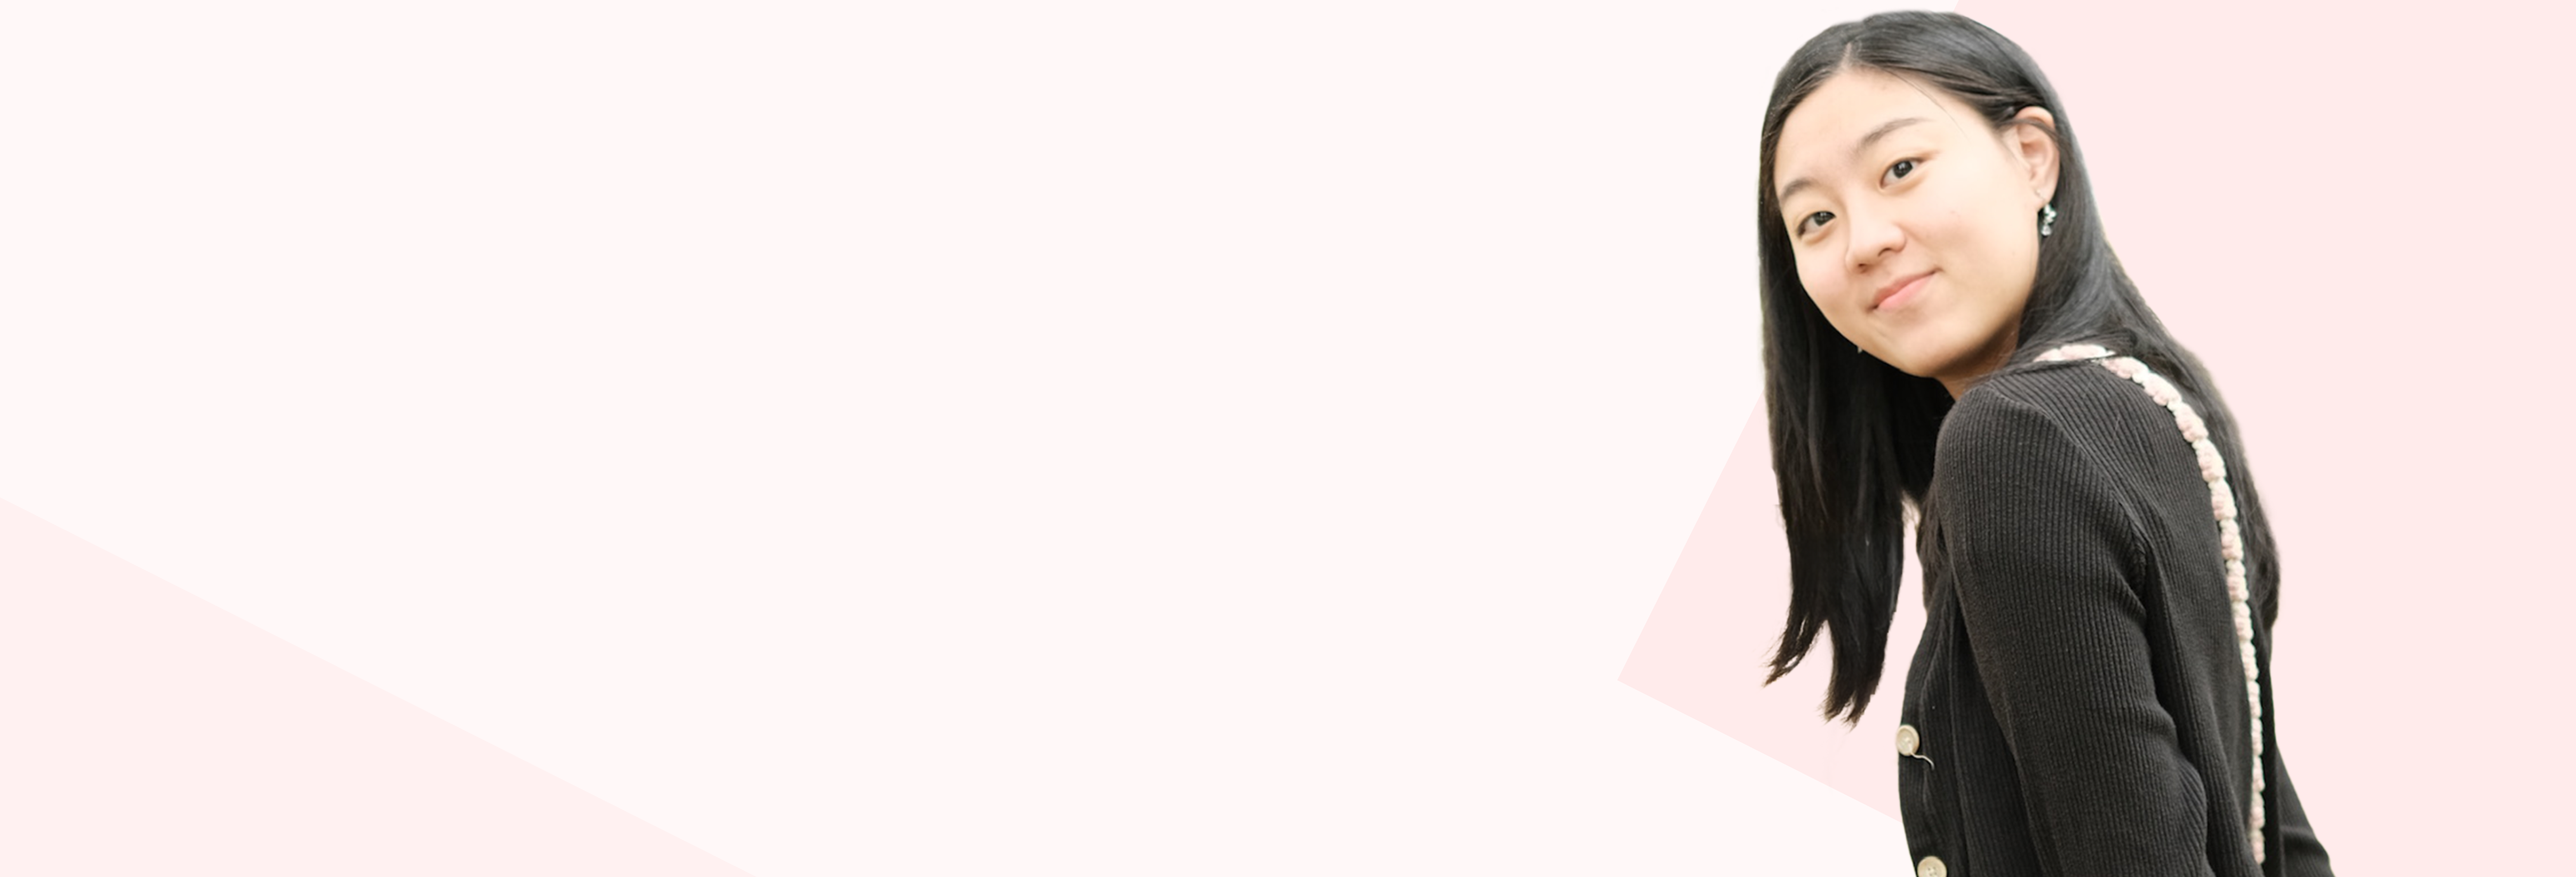
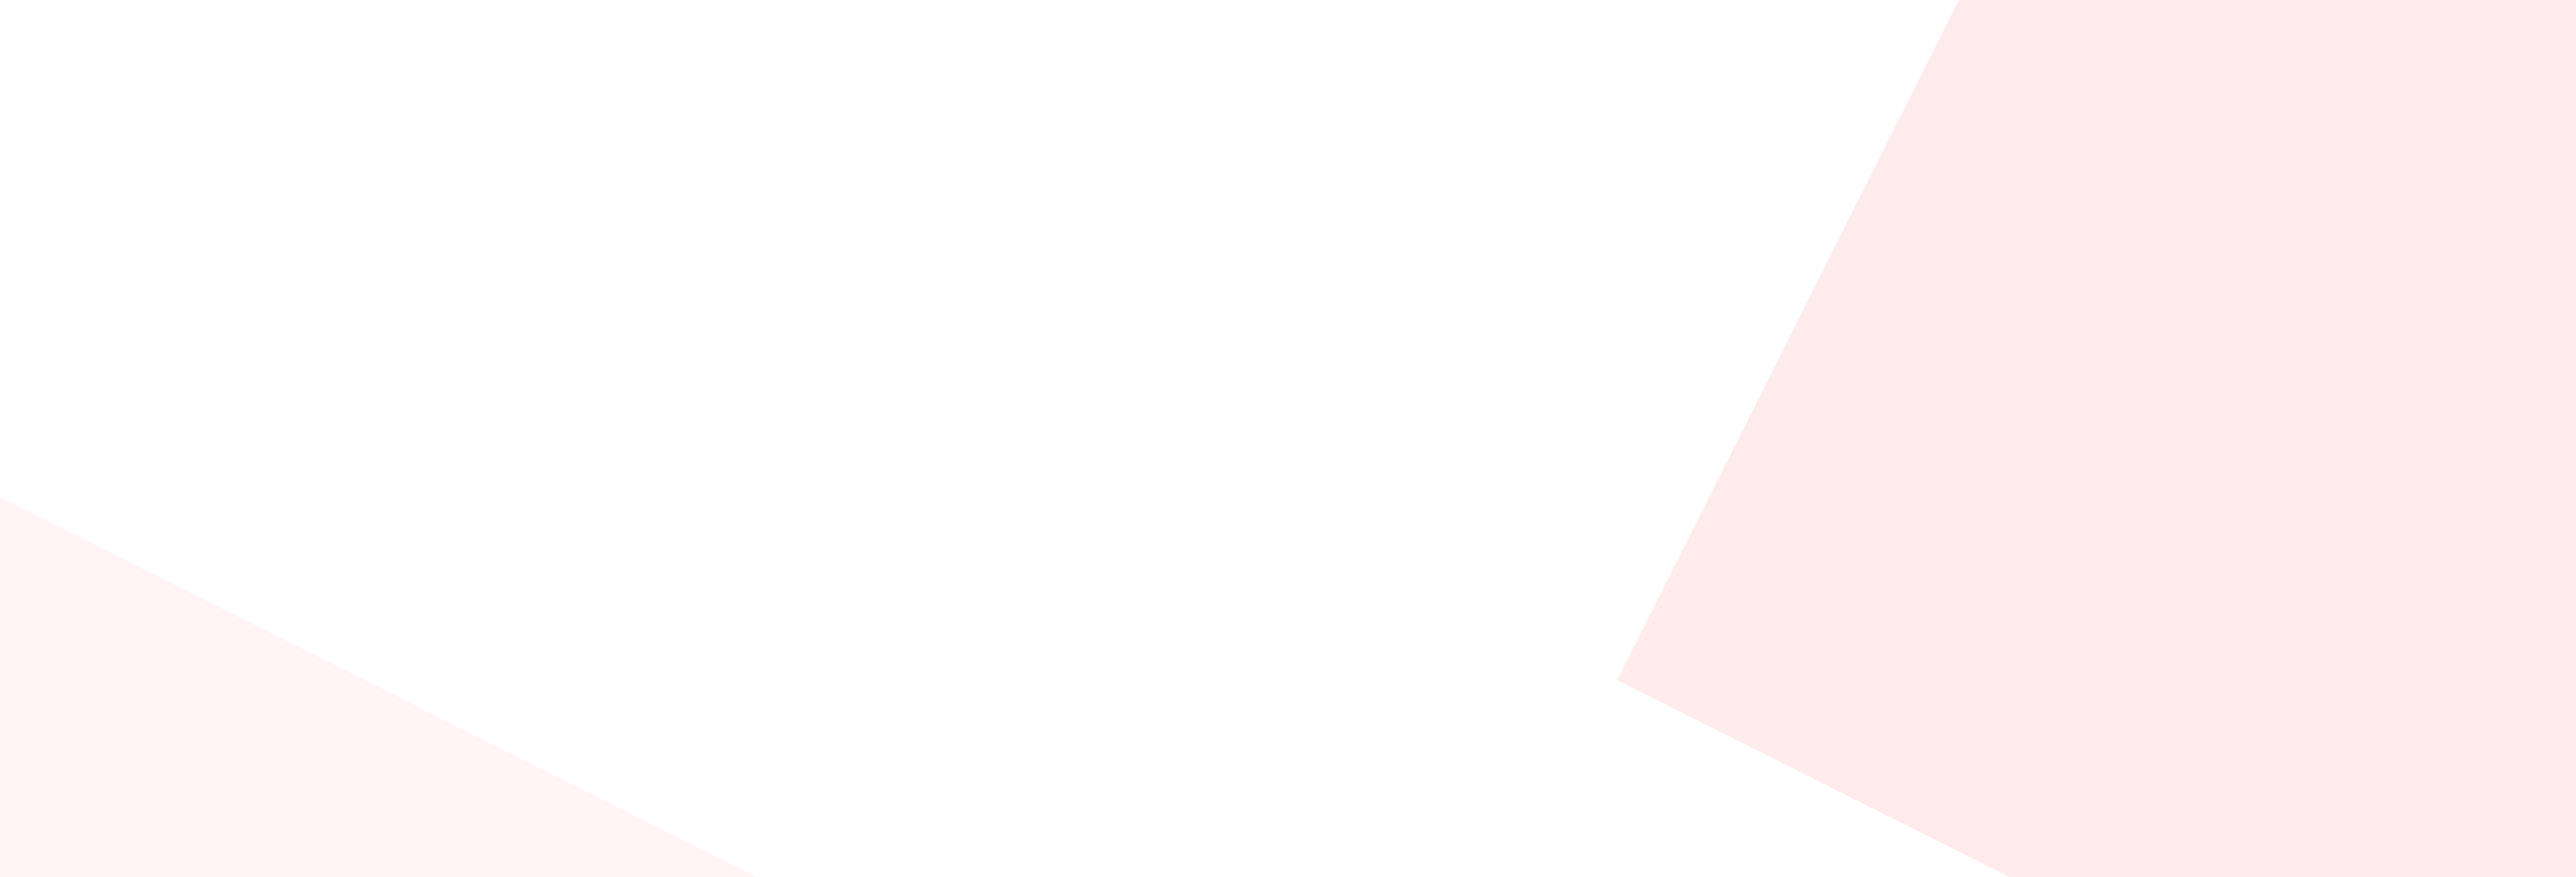
update hero section of homepage

Changed region(s): [[0.6562, 0.0, 0.9062, 1.0]]

diff --git a/src/app/page.module.css b/src/app/page.module.css
@@ -28,10 +28,23 @@
   background-repeat: no-repeat;
   display: flex;
   align-items: center;
+  flex-direction: column;
+  gap: 3rem;
+  padding: 2rem;
+  height: fit-content;
 }
 
 .heroText {
   padding: 0 1.5rem;
+}
+
+.heroImageContainer {
+  display: flex;
+  justify-content: center;
+}
+
+.heroImage {
+  width: 80%;
 }
 
 .projects {
@@ -77,23 +90,35 @@
 /* Tablet (768px and up) */
 @media (min-width: 768px) {
   .headingSmall {
-    font-size: 1.5rem;
+    font-size: 1rem;
   }
 
   .jobTitle {
-    font-size: 1.5rem;
+    font-size: 1rem;
   }
 
   .heading {
-    font-size: 3.5rem;
+    font-size: 3rem;
   }
 
   .hero {
-    height: 65vh;
+    flex-direction: row;
+    justify-content: space-between;
+    padding-bottom: 0;
+    padding: 0 5rem;
   }
 
   .heroText {
-    padding: 0 3rem;
+    padding: 0 0 0 3rem;
+  }
+
+  .heroImageContainer {
+    display: flex;
+    width: 25%;
+  }
+
+  .heroImage {
+    width: 100%;
   }
 
   .projects h2 {
@@ -108,6 +133,20 @@
     justify-content: center;
     width: 85%;
     gap: 2rem;
+  }
+}
+
+@media (min-width: 900px) {
+  .headingSmall {
+    font-size: 1.5rem;
+  }
+
+  .jobTitle {
+    font-size: 1.5rem;
+  }
+
+  .heading {
+    font-size: 3.5rem;
   }
 }
 
@@ -127,11 +166,23 @@
   }
 
   .hero {
-    height: 70vh;
+    padding-bottom: 0;
+    justify-content: space-between;
+    padding: 0 5rem;
   }
 
   .heroText {
-    padding: 0 5rem;
+    padding: 0;
+    width: 100%;
+  }
+
+  .heroImageContainer {
+    display: flex;
+    width: 50%;
+  }
+
+  .heroImage {
+    width: 100%;
   }
 
   .projects h2 {
@@ -153,10 +204,19 @@
 /* Large Desktop (1440px and up) */
 @media (min-width: 1440px) {
   .heroText {
-    padding: 0 10rem;
+    padding: 0 0 0 10rem;
   }
 
   .appCardList {
     gap: 4rem;
+  }
+
+    .heroImageContainer {
+      height: 100%;
+      width: auto;
+    }
+
+  .heroImage{
+    padding-right: 5rem;
   }
 }

diff --git a/src/app/page.js b/src/app/page.js
@@ -20,7 +20,14 @@ export default function Home() {
             </h1>
             <h2 className={styles.jobTitle}>UX/UI Designer | Graphic Designer</h2>
           </div>
-          
+          <div className={styles.heroImageContainer}>
+            <img
+              src="/hero-image.png"
+              alt="Crystal Cheung"
+              width="351"
+              className={styles.heroImage}
+            />
+          </div>
           {/* <div>
             <img
               src="/hero.png"

diff --git a/src/app/globals.css b/src/app/globals.css
@@ -37,7 +37,13 @@ button:hover {
   cursor: pointer;
 }
 
-
+img {
+  -webkit-user-drag: none;
+  -khtml-user-drag: none;
+  -moz-user-drag: none;
+  -o-user-drag: none;
+  user-drag: none;
+}
 
 
 @media (prefers-color-scheme: dark) {
